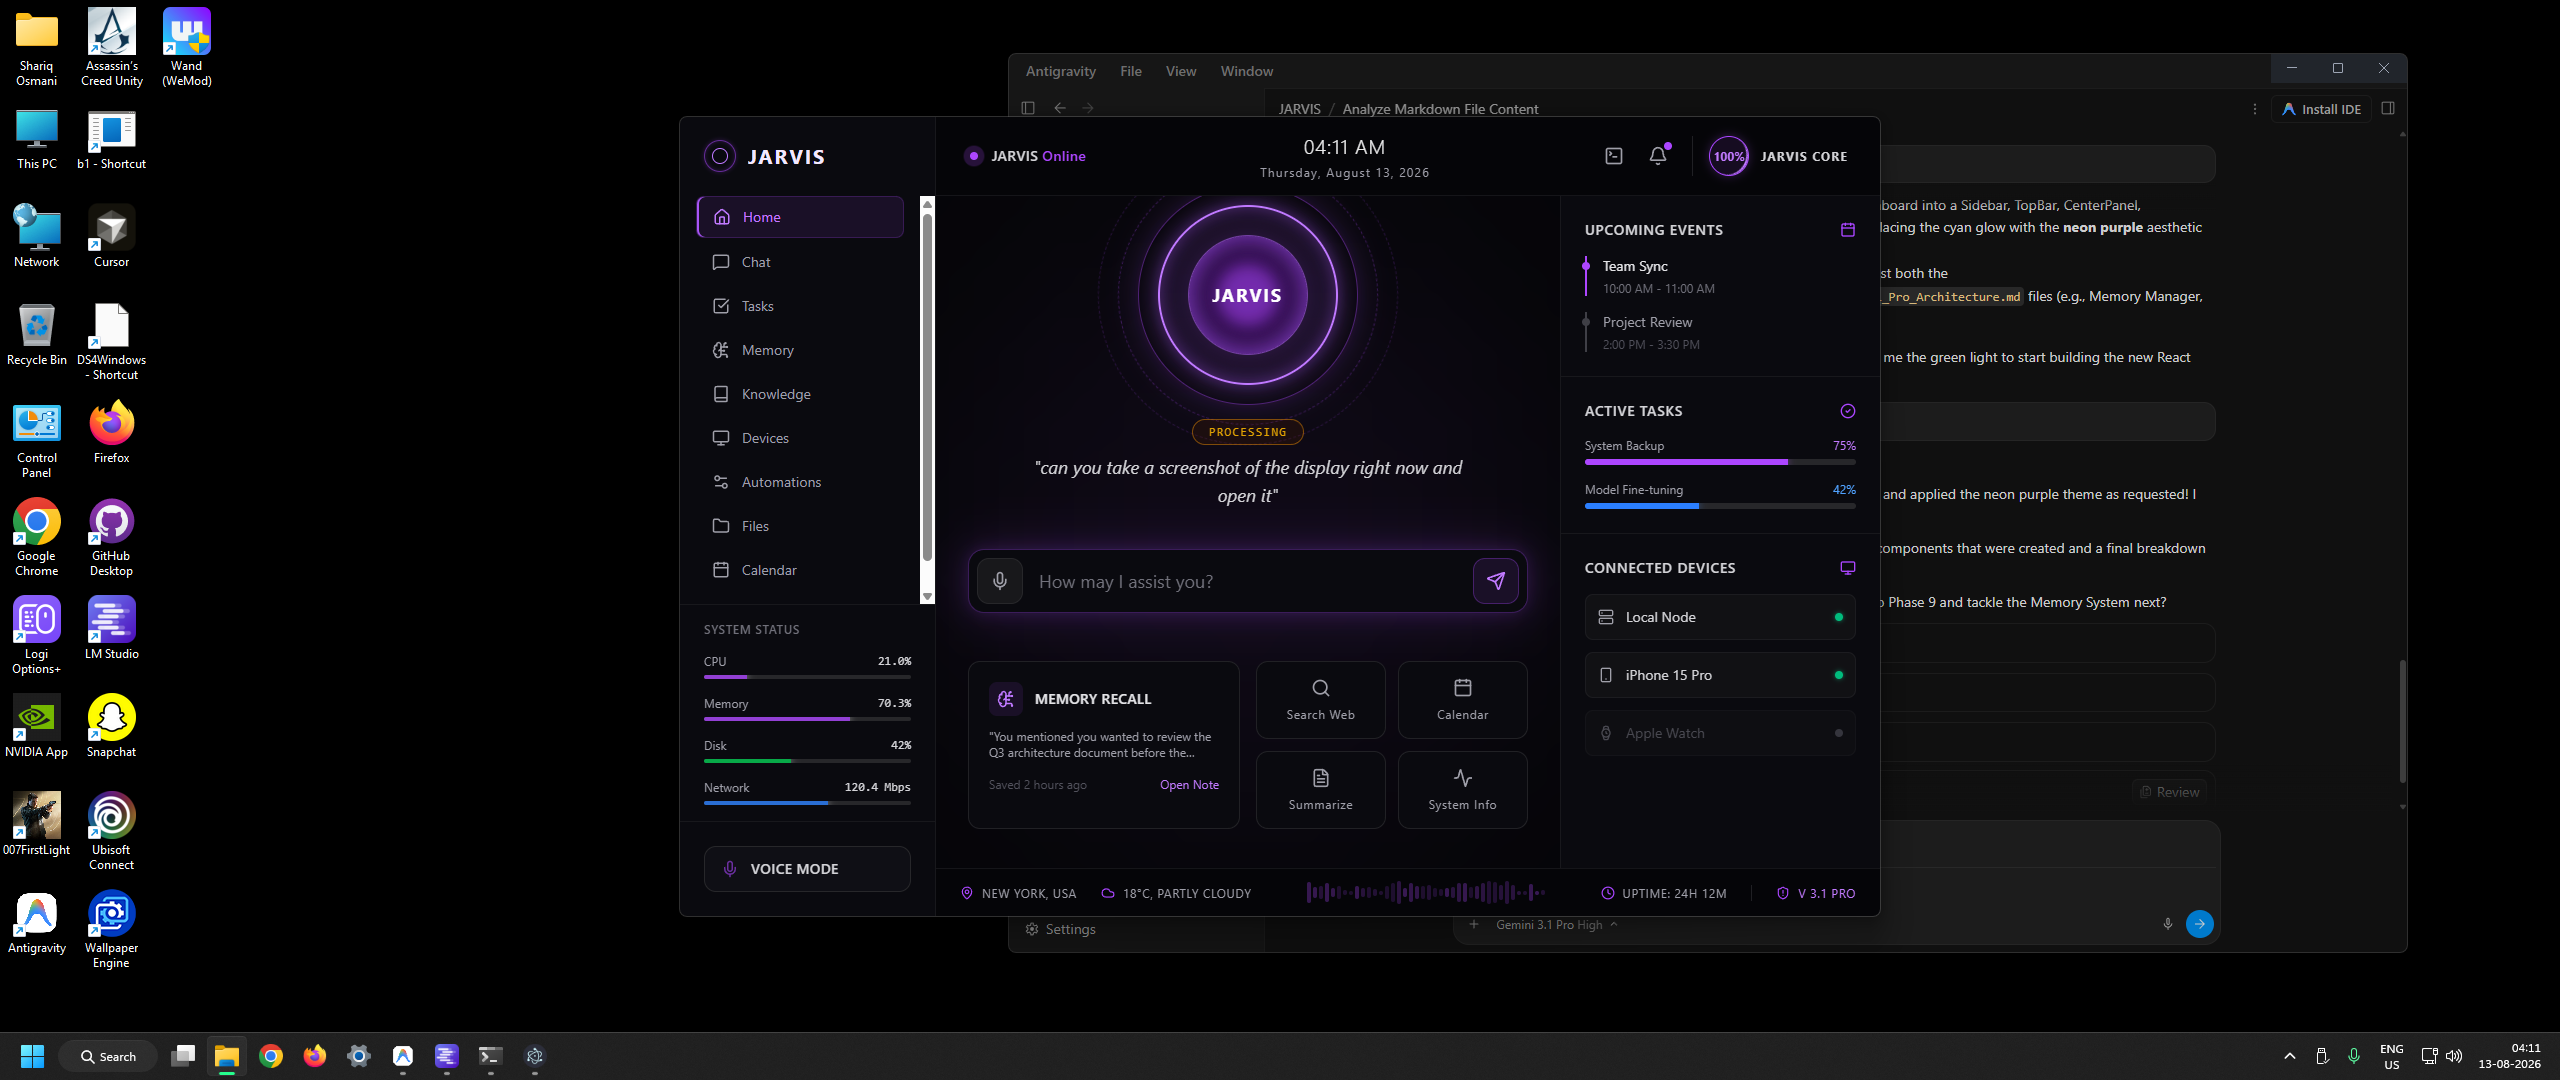
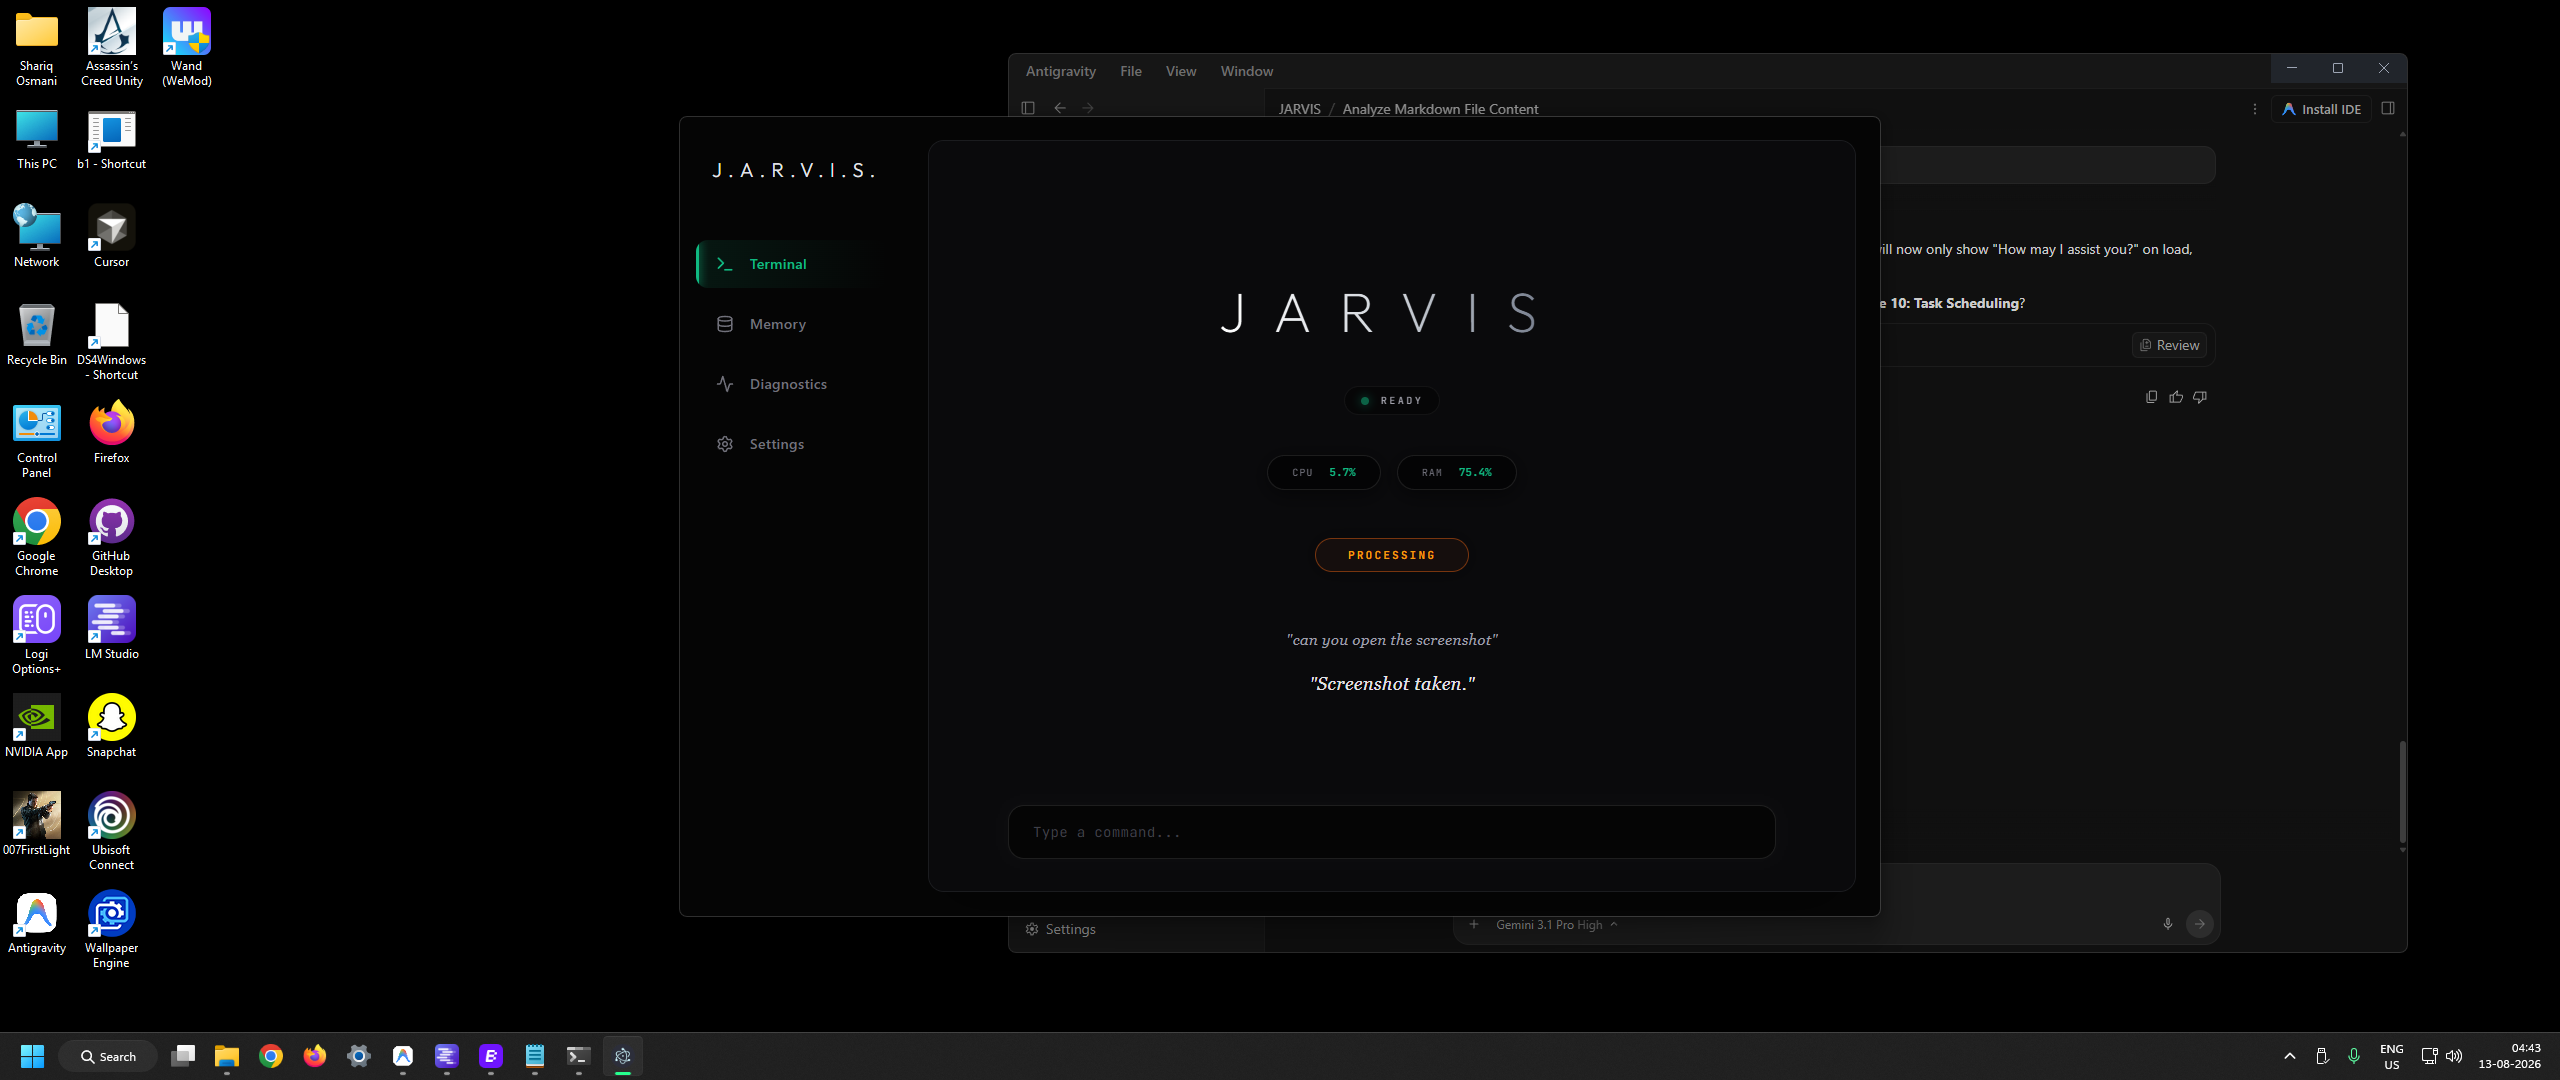
Enhance UI with premium fonts, animated glows, and deep black aesthetic

diff --git a/frontend/src/components/Dashboard.tsx b/frontend/src/components/Dashboard.tsx
@@ -5,9 +5,10 @@ const Dashboard: React.FC = () => {
   const [voiceState, setVoiceState] = useState('SPEAKING');
   const [cpu, setCpu] = useState('5.7%');
   const [ram, setRam] = useState('75.4%');
-  const [transcript, setTranscript] = useState("Wi-Fi has been turned off.");
+  const [transcript, setTranscript] = useState("");
   const [response, setResponse] = useState("How may I assist you?");
   const [input, setInput] = useState('');
+  const [isInputFocused, setIsInputFocused] = useState(false);
 
   useEffect(() => {
     const ws = new WebSocket('ws://127.0.0.1:8000/ws/telemetry');
@@ -61,73 +62,76 @@ const Dashboard: React.FC = () => {
   };
 
   return (
-    <div className="flex-1 flex flex-col items-center justify-center relative w-full h-full p-8 bg-[#0f1013]">
+    <div className="flex-1 flex flex-col items-center justify-center relative w-full h-full p-8 bg-[#0a0a0c] bg-[radial-gradient(ellipse_at_center,_var(--tw-gradient-stops))] from-[#111116] via-[#0a0a0c] to-[#0a0a0c]">
        
-       <div className="flex flex-col items-center w-full max-w-3xl flex-1 justify-center relative">
+       <div className="flex flex-col items-center w-full max-w-3xl flex-1 justify-center relative z-10 transition-all duration-700 ease-in-out">
          
          {/* Title */}
-         <h1 className="text-[3rem] font-extralight tracking-[0.5em] mb-6 text-[#f3f4f6]">
+         <h1 className="text-[3.5rem] font-outfit font-extralight tracking-[0.5em] mb-8 text-transparent bg-clip-text bg-gradient-to-r from-white via-gray-300 to-gray-500 drop-shadow-lg">
            JARVIS
          </h1>
          
          {/* Ready Indicator */}
-         <div className="flex items-center space-x-3 mb-8">
-           <div className={`w-2.5 h-2.5 rounded-full ${status === 'READY' ? 'bg-[#10b981] shadow-[0_0_8px_rgba(16,185,129,0.8)]' : 'bg-red-500'}`}></div>
-           <span className="font-semibold tracking-[0.2em] text-[10px] text-zinc-400">{status}</span>
+         <div className="flex items-center space-x-3 mb-10 bg-black/40 px-4 py-1.5 rounded-full border border-white/5 backdrop-blur-sm">
+           <div className={`w-2 h-2 rounded-full ${status === 'READY' ? 'bg-[#10b981] shadow-[0_0_10px_rgba(16,185,129,1)] animate-pulse-slow' : 'bg-red-500 shadow-[0_0_10px_rgba(239,68,68,1)]'}`}></div>
+           <span className="font-mono font-medium tracking-[0.25em] text-[10px] text-zinc-400">{status}</span>
          </div>
 
          {/* Telemetry */}
-         <div className="flex space-x-3 mb-10">
-           <div className="px-5 py-1.5 rounded-full bg-[#050505] border border-white/5 flex items-center space-x-3 shadow-inner">
-             <span className="text-[10px] font-semibold text-zinc-500">CPU</span>
-             <span className="text-[10px] font-bold text-[#10b981]">{cpu}</span>
+         <div className="flex space-x-4 mb-12">
+           <div className="px-6 py-2 rounded-full bg-black/60 border border-white/10 flex items-center space-x-4 shadow-[0_4px_20px_rgba(0,0,0,0.5)] backdrop-blur-md transition-all duration-300 hover:border-white/20 hover:shadow-[0_4px_20px_rgba(16,185,129,0.1)]">
+             <span className="text-[10px] font-mono tracking-widest text-zinc-500">CPU</span>
+             <span className="text-[11px] font-mono font-bold text-[#10b981]">{cpu}</span>
            </div>
-           <div className="px-5 py-1.5 rounded-full bg-[#050505] border border-white/5 flex items-center space-x-3 shadow-inner">
-             <span className="text-[10px] font-semibold text-zinc-500">RAM</span>
-             <span className="text-[10px] font-bold text-[#10b981]">{ram}</span>
+           <div className="px-6 py-2 rounded-full bg-black/60 border border-white/10 flex items-center space-x-4 shadow-[0_4px_20px_rgba(0,0,0,0.5)] backdrop-blur-md transition-all duration-300 hover:border-white/20 hover:shadow-[0_4px_20px_rgba(16,185,129,0.1)]">
+             <span className="text-[10px] font-mono tracking-widest text-zinc-500">RAM</span>
+             <span className="text-[11px] font-mono font-bold text-[#10b981]">{ram}</span>
            </div>
          </div>
 
          {/* Voice State Pill */}
          {voiceState !== 'SLEEPING' && (
-           <div className={`px-6 py-1.5 rounded-full border text-[10px] font-bold tracking-[0.15em] mb-12 shadow-sm
-             ${voiceState === 'PROCESSING' ? 'border-[#78350f] text-[#f59e0b] bg-transparent' : 
-               voiceState === 'LISTENING' ? 'border-[#064e3b] text-[#10b981] bg-transparent' : 
-               'border-[#1e3a8a] text-[#3b82f6] bg-transparent'}`}>
+           <div className={`px-8 py-2 rounded-full border text-[11px] font-mono font-bold tracking-[0.2em] mb-14 transition-all duration-500 shadow-[0_0_20px_rgba(0,0,0,0.3)]
+             ${voiceState === 'PROCESSING' ? 'border-[#78350f] text-[#f59e0b] shadow-[0_0_15px_rgba(245,158,11,0.2)] bg-[#78350f]/10' : 
+               voiceState === 'LISTENING' ? 'border-[#064e3b] text-[#10b981] shadow-[0_0_15px_rgba(16,185,129,0.2)] bg-[#064e3b]/10 animate-pulse-slow' : 
+               'border-[#1e3a8a] text-[#3b82f6] shadow-[0_0_15px_rgba(59,130,246,0.2)] bg-[#1e3a8a]/10'}`}>
              {voiceState}
            </div>
          )}
          
          {voiceState === 'SLEEPING' && (
-           <div className="px-6 py-1.5 rounded-full border border-white/5 text-zinc-600 font-bold tracking-[0.15em] text-[10px] mb-12 bg-transparent">
+           <div className="px-8 py-2 rounded-full border border-white/10 text-zinc-600 font-mono font-bold tracking-[0.2em] text-[11px] mb-14 bg-black/30 backdrop-blur-sm">
              SLEEPING
            </div>
          )}
 
          {/* Transcript */}
          {transcript && (
-           <p className="text-[14px] text-center text-[#d1d5db] font-serif italic max-w-xl mb-24 font-light leading-relaxed">
+           <p className="text-[15px] text-center text-zinc-400 font-serif italic max-w-xl mb-4 font-light leading-relaxed tracking-wide transition-opacity duration-500">
              "{transcript}"
            </p>
          )}
 
          {/* Response */}
          {response && (
-           <p className="text-[16px] text-center text-[#9ca3af] font-serif italic max-w-2xl font-light leading-relaxed">
+           <p className="text-[18px] text-center text-zinc-200 font-serif italic max-w-2xl font-light leading-relaxed tracking-wide transition-opacity duration-500 text-shadow-sm mb-16">
              "{response}"
            </p>
          )}
        </div>
 
        {/* Input Box Area at the absolute bottom */}
-       <div className="w-full absolute bottom-0 left-0 p-8">
-         <form onSubmit={sendMessage} className="w-full max-w-3xl mx-auto">
+       <div className="w-full absolute bottom-0 left-0 p-8 z-20">
+         <form onSubmit={sendMessage} className="w-full max-w-3xl mx-auto relative group">
+            <div className={`absolute -inset-0.5 rounded-2xl blur opacity-30 transition duration-500 ${isInputFocused ? 'bg-gradient-to-r from-[#10b981] to-[#3b82f6] opacity-60' : 'bg-white/5 group-hover:opacity-50'}`}></div>
             <input
               type="text"
               value={input}
               onChange={e => setInput(e.target.value)}
-              className="w-full bg-[#050505] border border-white/5 rounded-xl px-6 py-3.5 text-sm text-[#d1d5db] outline-none focus:border-[#10b981]/30 transition-colors shadow-inner"
-              placeholder=""
+              onFocus={() => setIsInputFocused(true)}
+              onBlur={() => setIsInputFocused(false)}
+              className="relative w-full bg-[#050505] border border-white/10 rounded-2xl px-6 py-4 text-sm text-[#e5e7eb] outline-none font-mono tracking-wide placeholder:text-zinc-700 transition-all duration-300 focus:border-[#10b981]/50 focus:bg-black"
+              placeholder={isInputFocused ? "" : "Type a command..."}
             />
          </form>
        </div>

diff --git a/frontend/src/components/Sidebar.tsx b/frontend/src/components/Sidebar.tsx
@@ -14,28 +14,31 @@ export const Sidebar: React.FC = () => {
   ];
 
   return (
-    <div className="w-56 bg-[#050505] flex flex-col h-screen py-8">
+    <div className="w-56 bg-[#050505] flex flex-col h-screen py-10 relative">
       {/* Title */}
-      <div className="px-8 mb-12">
-        <h1 className="text-xl font-light tracking-[0.25em] text-[#e5e7eb]">J.A.R.V.I.S.</h1>
+      <div className="px-8 mb-14">
+        <h1 className="text-xl font-outfit font-light tracking-[0.3em] text-[#e5e7eb]">J.A.R.V.I.S.</h1>
       </div>
 
       {/* Navigation */}
-      <div className="flex-1 px-4 space-y-2">
+      <div className="flex-1 px-4 space-y-3">
         {navItems.map((item) => {
           const isActive = location.pathname === item.id || (item.id !== '/' && location.pathname.startsWith(item.id));
           return (
             <button
               key={item.id}
               onClick={() => navigate(item.id)}
-              className={`w-full flex items-center gap-3 px-4 py-3 rounded-lg text-sm transition-all ${
+              className={`w-full flex items-center gap-4 px-5 py-3.5 rounded-xl text-sm transition-all duration-300 relative group overflow-hidden ${
                 isActive
-                  ? 'border border-[#10b981]/50 bg-[#10b981]/10 text-[#10b981]'
+                  ? 'text-[#10b981] bg-gradient-to-r from-[#10b981]/10 to-transparent'
                   : 'text-zinc-500 hover:text-zinc-300 hover:bg-white/5'
               }`}
             >
-              <item.icon size={18} className={isActive ? 'text-[#10b981]' : ''} />
-              <span className="font-medium tracking-wide">{item.label}</span>
+              {isActive && (
+                <div className="absolute left-0 top-0 bottom-0 w-[3px] bg-[#10b981] rounded-r-full shadow-[0_0_10px_#10b981]"></div>
+              )}
+              <item.icon size={18} className={`transition-transform duration-300 ${isActive ? 'text-[#10b981] scale-110' : 'group-hover:scale-110'}`} />
+              <span className={`font-medium tracking-wide transition-all ${isActive ? 'font-semibold' : ''}`}>{item.label}</span>
             </button>
           );
         })}

diff --git a/frontend/src/index.css b/frontend/src/index.css
@@ -2,26 +2,45 @@
 
 @layer base {
   body {
-    @apply bg-zinc-950 text-zinc-100 font-sans antialiased;
+    font-family: 'Inter', sans-serif;
+    background-color: #050505;
+    color: #f4f4f5;
+    -webkit-font-smoothing: antialiased;
   }
+}
 
-  /* Custom dark scrollbar */
-  ::-webkit-scrollbar {
-    width: 6px;
-    height: 6px;
+@layer utilities {
+  .font-outfit {
+    font-family: 'Outfit', sans-serif;
   }
-  ::-webkit-scrollbar-track {
-    background: transparent;
+  .font-mono {
+    font-family: 'JetBrains Mono', monospace;
   }
-  ::-webkit-scrollbar-thumb {
-    background: #27272a;
-    border-radius: 10px;
+  
+  .glow-border {
+    box-shadow: 0 0 10px rgba(16, 185, 129, 0.1), inset 0 0 10px rgba(16, 185, 129, 0.05);
   }
-  ::-webkit-scrollbar-thumb:hover {
-    background: #a855f7; /* neon purple on hover */
+  
+  .animate-pulse-slow {
+    animation: pulse 3s cubic-bezier(0.4, 0, 0.6, 1) infinite;
   }
-  * {
-    scrollbar-width: thin;
-    scrollbar-color: #27272a transparent;
-  }
+}
+
+/* Custom dark scrollbar */
+::-webkit-scrollbar {
+  width: 6px;
+  height: 6px;
+}
+
+::-webkit-scrollbar-track {
+  background: transparent;
+}
+
+::-webkit-scrollbar-thumb {
+  background: #27272a;
+  border-radius: 3px;
+}
+
+::-webkit-scrollbar-thumb:hover {
+  background: #3f3f46;
 }

diff --git a/frontend/index.html b/frontend/index.html
@@ -4,9 +4,13 @@
     <meta charset="UTF-8" />
     <link rel="icon" type="image/svg+xml" href="/favicon.svg" />
     <meta name="viewport" content="width=device-width, initial-scale=1.0" />
-    <title>frontend</title>
+    <title>J.A.R.V.I.S</title>
+    
+    <link rel="preconnect" href="https://fonts.googleapis.com">
+    <link rel="preconnect" href="https://fonts.gstatic.com" crossorigin>
+    <link href="https://fonts.googleapis.com/css2?family=Inter:wght@300;400;500;600&family=Outfit:wght@200;300;400;500&family=JetBrains+Mono:wght@400;500;700&display=swap" rel="stylesheet">
   </head>
-  <body>
+  <body class="bg-[#050505]">
     <div id="root"></div>
     <script type="module" src="/src/main.tsx"></script>
   </body>
